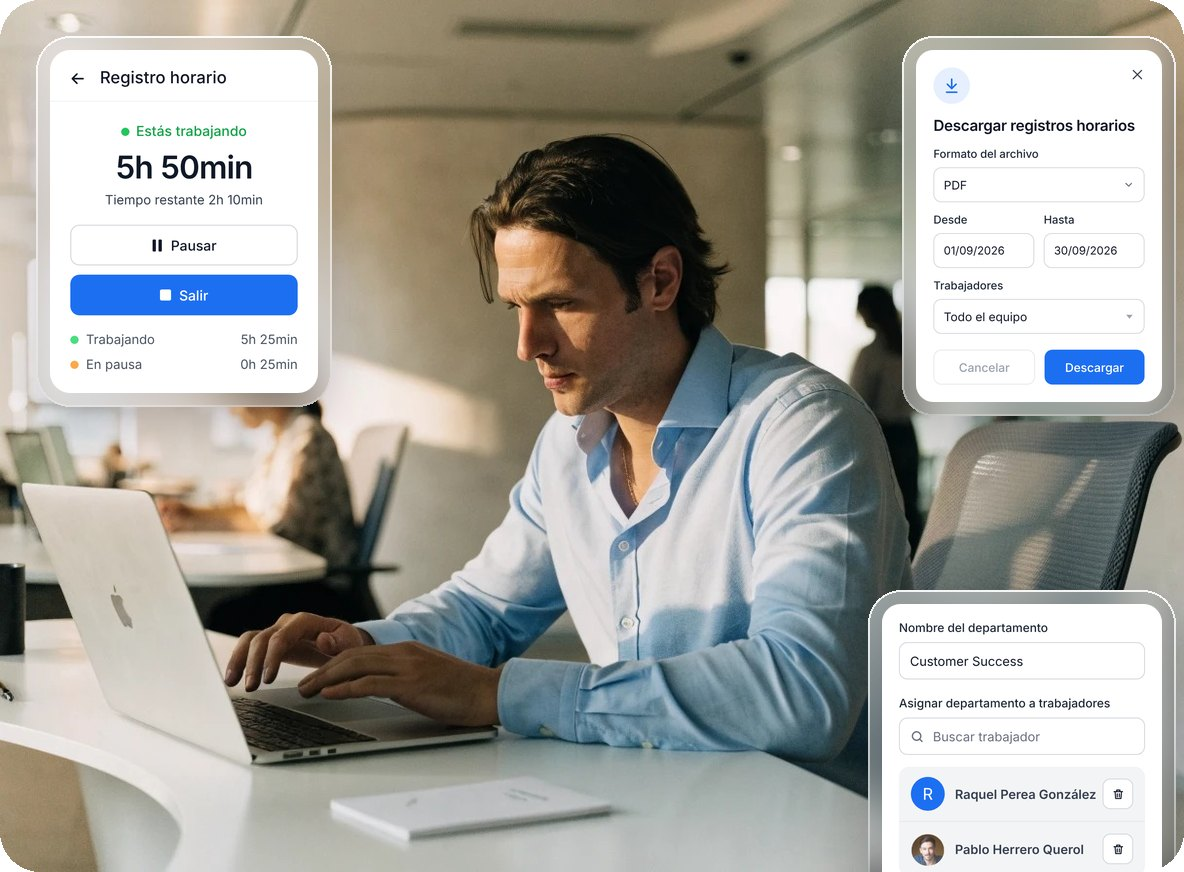
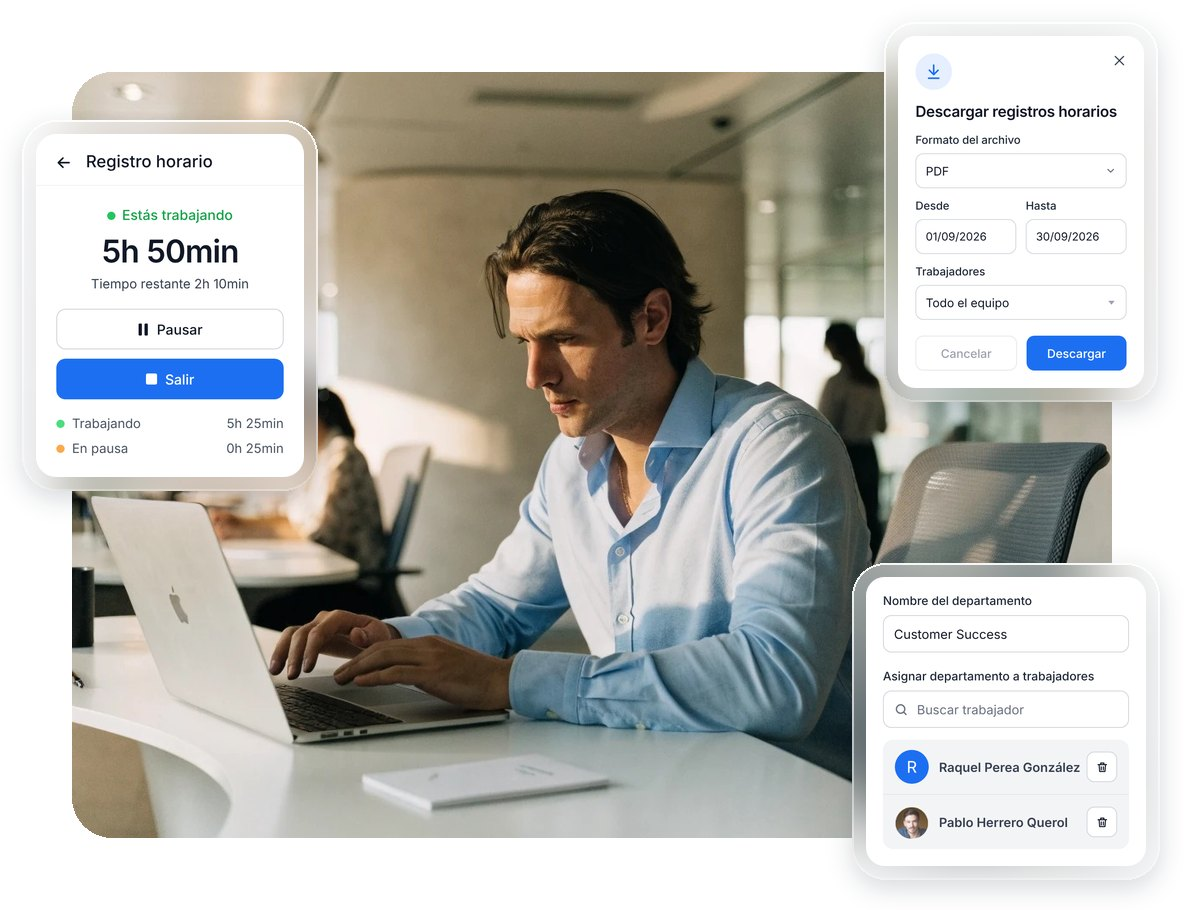
Playoff Time: las ventanas de cristal sobresalen de la foto
La foto va con margen blanco y las ventanas se salen por los bordes en lugar de
cortarse con ella. Sombra más corta para que no se recorte en el borde de la imagen.

Claude-Session: https://claude.ai/code/session_01JNJa8aFjSVxvvdFJtVqmJg

diff --git a/campanas/playoff-time-oct26.html b/campanas/playoff-time-oct26.html
@@ -64,7 +64,7 @@
     </table>
   </td></tr>
 
-  <!-- Foto de entorno: oficina + ventanas en liquid glass (imagen única, ver hero-playofftime/).
+  <!-- Foto de entorno: oficina + ventanas en liquid glass que sobresalen de la foto (imagen única, ver hero-playofftime/).
        Al subirla a Brevo, cambia el src por la URL de la biblioteca. -->
   <tr><td class="px" style="padding:40px 24px 0;">
     <img src="hero-playofftime/hero.jpg" alt="Registro horario, descarga de registros y departamentos en Playoff Time" width="592" style="width:100%;max-width:592px;height:auto;display:block;border:0;">

diff --git a/campanas/hero-playofftime/componer.py b/campanas/hero-playofftime/componer.py
@@ -12,16 +12,22 @@ Las pantallas salen de ventanas.html con `node capturar.js`. Para moverlas, se t
 """
 import sys
 import numpy as np
-from PIL import Image, ImageDraw, ImageFilter, ImageEnhance
+from PIL import Image, ImageDraw, ImageFilter, ImageEnhance, ImageOps
 
-ANCHO, ALTO = 1184, 872   # proporción de la foto de la oficina (1216 × 896)
+# El hero mide 1184 px de ancho (el email lo muestra a 592). La foto va dentro con un margen blanco
+# alrededor, y las ventanas sobresalen por ese margen: se salen de la foto, no se cortan con ella.
+ANCHO = 1184
+MARGEN = 72
+FOTO_W = ANCHO - 2 * MARGEN
+FOTO_H = round(FOTO_W * 896 / 1216)   # proporción de la foto de la oficina (1216 × 896)
+ALTO = FOTO_H + 2 * MARGEN
 
 # (pantalla, x, y, ancho de la pantalla) en píxeles del hero. Pensado para la foto del chico con el portátil:
 # su cara y las manos en el teclado quedan libres; las ventanas tapan techo, ventanas y la silla.
 VENTANAS = [
-    ('registro.png', 36, 36, 268),
-    ('descargar.png', 902, 36, 246),
-    ('departamento.png', 868, 590, 280),
+    ('registro.png', 22, 120, 268),
+    ('descargar.png', 884, 22, 246),
+    ('departamento.png', 852, ALTO - 30 - 317, 280),
 ]
 
 MARCO = 14          # grosor del cristal alrededor de la pantalla
@@ -65,13 +71,15 @@ def ventana(hero, pantalla, x, y, ancho):
 
     # Sombra suave para despegarla de la foto.
     sombra = Image.new('L', hero.size, 0)
-    sombra.paste(forma, (x, y + 16))
-    sombra = sombra.filter(ImageFilter.GaussianBlur(26)).point(lambda v: v * 0.22)
+    sombra.paste(forma, (x, y + 8))
+    sombra = sombra.filter(ImageFilter.GaussianBlur(12)).point(lambda v: v * 0.16)
     hero.paste(Image.new('RGB', hero.size, (10, 20, 40)), (0, 0), sombra)
 
     # Cristal: lo de detrás, desenfocado, más claro y algo más saturado.
     m = DESENFOQUE * 3
-    zona = hero.crop((x - m, y - m, x + w + m, y + h + m)).filter(ImageFilter.GaussianBlur(DESENFOQUE))
+    # Se amplía con blanco para que el cristal que sobresale no recoja negro de fuera del lienzo.
+    zona = ImageOps.expand(hero, m, fill=(255, 255, 255)).crop((x, y, x + w + 2 * m, y + h + 2 * m))
+    zona = zona.filter(ImageFilter.GaussianBlur(DESENFOQUE))
     zona = ImageEnhance.Color(zona.crop((m, m, m + w, m + h))).enhance(1.2)
     cristal = Image.blend(zona, Image.new('RGB', (w, h), (255, 255, 255)), BLANCO).convert('RGBA')
 
@@ -97,15 +105,15 @@ def ventana(hero, pantalla, x, y, ancho):
 
 def main():
     if len(sys.argv) > 1:
-        hero, salida = cubrir(Image.open(sys.argv[1]).convert('RGB'), ANCHO, ALTO), 'hero.jpg'
+        foto, salida = cubrir(Image.open(sys.argv[1]).convert('RGB'), FOTO_W, FOTO_H), 'hero.jpg'
     else:
-        hero, salida = fondo_provisional(), 'hero-provisional.jpg'
+        foto, salida = cubrir(fondo_provisional(), FOTO_W, FOTO_H), 'hero-provisional.jpg'
+    # La foto, con las esquinas redondeadas como el resto de fotos del email, sobre el blanco de la tarjeta.
+    hero = Image.new('RGB', (ANCHO, ALTO), (255, 255, 255))
+    hero.paste(foto, (MARGEN, MARGEN), mascara_redonda(FOTO_W, FOTO_H, 40))
     for v in VENTANAS:
         ventana(hero, *v)
-    # Esquinas redondeadas como el resto de fotos del email: se rellenan del blanco de la tarjeta.
-    final = Image.new('RGB', hero.size, (255, 255, 255))
-    final.paste(hero, (0, 0), mascara_redonda(ANCHO, ALTO, 40))
-    final.save(salida, quality=86, optimize=True, progressive=True)
+    hero.save(salida, quality=86, optimize=True, progressive=True)
     print(salida)
 
 
